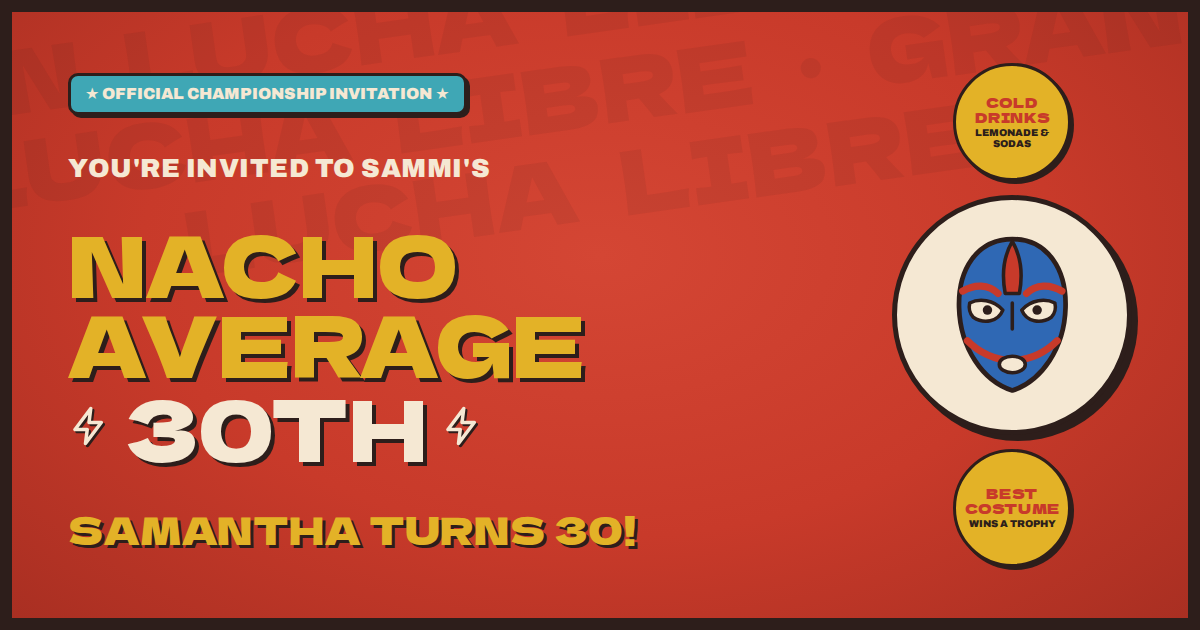
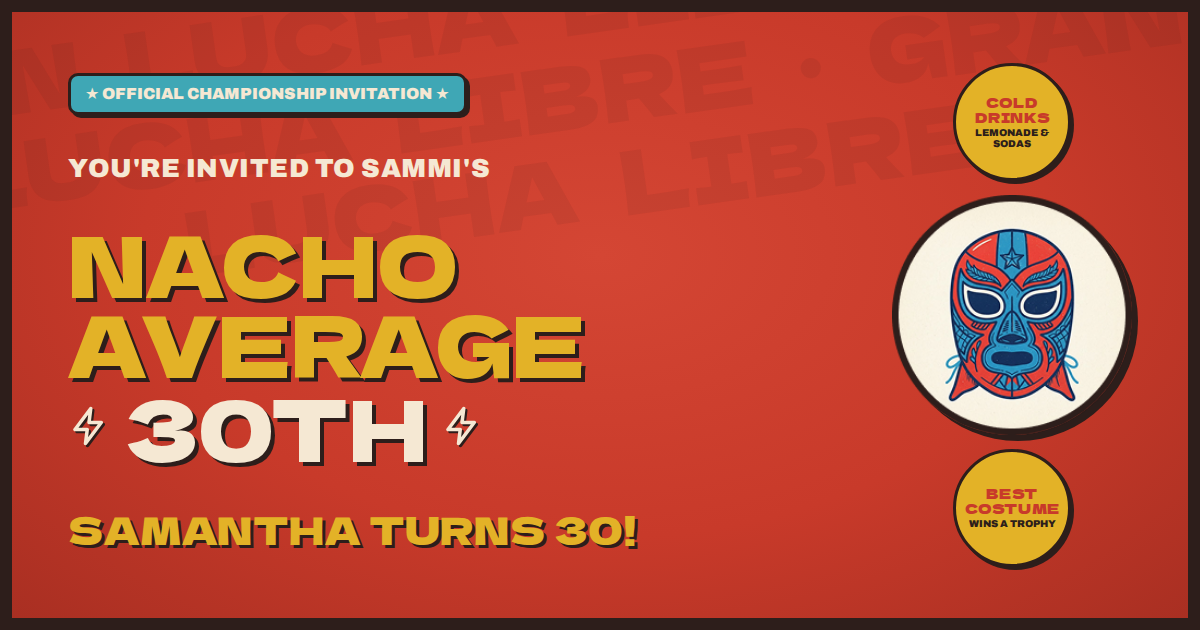
Use the Figma artwork across the site (#9)
* Use the Figma artwork for the feast, schedule, and invite

- Feast: Championship Nachos and Champion Churros cards with the
  illustrated art, around El Grande Lemonade (replacing tacos and the
  avocado)
- Schedule: the Grand Entrance and Cake Smash rows use their Figma icons
- Invite poster: the flexing chili champ fills the VS circle

The art ships in public/art with metadata stripped; the feast images are
trimmed of their baked-in border. Unused agave and avocado characters
are removed.

Claude-Session: https://claude.ai/code/session_01HXZrgNicowinLAMq3mgLZX

* Place the masked taco, lucha mask, and remaining schedule art

- Hero: the masked taco strutting in fills the big circle
- Welcome screen: the Figma lucha mask replaces the hand-drawn one (and
  in the re-rendered text-message preview image)
- Invite on phones: the thumbs-up masked taco card
- Schedule: nacho chip for Doors Open and the record player for the
  Dance Battle, so every row but the lemonade after-party uses Figma art

Art that carries its own ring or frame and shadow is sized to line up
with the CSS shapes it replaces. The now-unused taco and pepper
characters and the drawn LuchaMask are removed.

Claude-Session: https://claude.ai/code/session_01HXZrgNicowinLAMq3mgLZX

* Put the boxing masked taco in the invite's VS circle

The desktop invite poster now pits the boxing masked taco against the
flexing chili, both from the Figma art with matching rings and shadows.
[…]

diff --git a/src/App.jsx b/src/App.jsx
@@ -1,7 +1,7 @@
 import { useEffect, useRef, useState } from 'react'
 import { createPortal } from 'react-dom'
 import { feast, links, marquee, party, ringNameParts, schedule, story } from './content'
-import { Bolt, Character, LuchaMask, TicketStar } from './illustrations'
+import { Bolt, Character, TicketStar } from './illustrations'
 
 function encode(data) {
   return new URLSearchParams(data).toString()
@@ -286,7 +286,7 @@ function Welcome({ sectionRef }) {
             <small>Lemonade &amp; sodas</small>
           </p>
           <div className="welcome-mask">
-            <LuchaMask />
+            <img src="/art/lucha-mask.png" alt="A red and blue lucha libre mask" />
           </div>
           <p className="welcome-badge">
             Best costume
@@ -400,14 +400,15 @@ function Invite() {
           <span>30th Fiesta</span>
         </h2>
         <div className="invite-bout">
-          <div className="invite-mascot">
-            <Character name="taco-walk" alt="Nacho the taco" />
+          <div className="invite-mascot is-art invite-taco">
+            <img className="wide-only" src="/art/boxing-taco.png" alt="The masked taco luchador, gloves up" />
+            <img className="narrow-only" src="/art/masked-taco-thumbs.png" alt="The masked taco luchador, thumbs up" />
           </div>
           <p className="invite-vs" aria-hidden="true">
             VS
           </p>
-          <div className="invite-mascot">
-            <Character name="pepper" alt="The chili pepper" />
+          <div className="invite-mascot is-art">
+            <img src="/art/chili-champ.png" alt="The chili pepper champ, flexing" />
           </div>
         </div>
         <div className="invite-celebrant">
@@ -471,8 +472,8 @@ function Hero() {
       <p className="hero-pill">A Nacho Libre-inspired birthday fiesta</p>
       <div className="hero-art">
         <p className="hero-badge gold">Free guaca-mole!</p>
-        <div className="hero-mascot">
-          <Character name="taco-walk" alt="Nacho the taco" />
+        <div className="hero-mascot is-art">
+          <img src="/art/masked-taco-walk.png" alt="The masked taco luchador strutting in" />
         </div>
         <p className="hero-badge red">Dance battle!</p>
       </div>
@@ -568,8 +569,8 @@ export default function App() {
           {schedule.map((item) => (
             <li key={item.id}>
               <span className="time">{item.time}</span>
-              <span className="schedule-icon">
-                <Character name={item.mascot} alt="" />
+              <span className={`schedule-icon${item.icon ? ' is-art' : ''}`}>
+                {item.icon ? <img src={item.icon} alt="" /> : <Character name={item.mascot} alt="" />}
               </span>
               <div>
                 <h3>{item.title}</h3>
@@ -588,7 +589,13 @@ export default function App() {
         <div className="feast-grid">
           {feast.map((item) => (
             <article key={item.id}>
-              <div className="feast-art">{mascotFor(item.mascot, item.title)}</div>
+              <div className="feast-art">
+                {item.art ? (
+                  <img className="feast-illustration" src={item.art} alt={item.title} loading="lazy" />
+                ) : (
+                  mascotFor(item.mascot, item.title)
+                )}
+              </div>
               <div className="feast-body">
                 <h3>{item.title}</h3>
                 <p>{item.detail}</p>

diff --git a/src/styles.css b/src/styles.css
@@ -207,17 +207,14 @@ code {
 .welcome-mask {
   width: clamp(116px, 17vh, 160px);
   aspect-ratio: 1;
-  display: grid;
-  place-items: center;
-  background: var(--poster-cream);
-  border: 5px solid var(--poster-ink);
   border-radius: 50%;
   box-shadow: 6px 6px 0 var(--poster-ink);
 }
 
-.welcome-mask svg {
-  width: 62%;
-  height: 72%;
+/* The mask art carries its own cream fill and ink ring. */
+.welcome-mask img {
+  width: 100%;
+  height: 100%;
 }
 
 .welcome-badge {
@@ -458,6 +455,20 @@ code {
   height: 72%;
 }
 
+/* The taco art includes its own ring and 8px shadow: 268px of image for a 260px circle. */
+.hero-mascot.is-art {
+  display: block;
+  background: none;
+  border: 0;
+  border-radius: 0;
+  box-shadow: none;
+}
+
+.hero-mascot.is-art img {
+  width: calc(100% * 268 / 260);
+  max-width: none;
+}
+
 .hero-badge {
   width: 130px;
   aspect-ratio: 1;
@@ -567,6 +578,21 @@ code {
   border-radius: 50%;
   box-shadow: 6px 6px 0 var(--poster-ink);
   overflow: hidden;
+}
+
+.invite-mascot.is-art {
+  display: block;
+  background: none;
+  border: 0;
+  border-radius: 0;
+  box-shadow: none;
+  overflow: visible;
+}
+
+/* The art includes its own 4px ring and 6px shadow: 186px of image for a 180px circle. */
+.invite-mascot.is-art img {
+  width: calc(100% * 186 / 180);
+  max-width: none;
 }
 
 .invite-mascot .character {
@@ -938,6 +964,16 @@ code {
   overflow: hidden;
 }
 
+.schedule-icon.is-art {
+  background: none;
+  border: 0;
+}
+
+.schedule-icon.is-art img {
+  width: 100%;
+  height: 100%;
+}
+
 .schedule-icon .character {
   width: 70%;
   height: 70%;
@@ -988,6 +1024,12 @@ code {
 .feast-art .character {
   width: 150px;
   height: 170px;
+}
+
+.feast-art .feast-illustration {
+  width: 100%;
+  height: 100%;
+  object-fit: cover;
 }
 
 .feast-body {
@@ -1811,6 +1853,13 @@ textarea {
   .invite-mascot .character {
     width: 80%;
     height: 80%;
+  }
+
+  /* On phones the thumbs-up taco card brings its own frame and 5px shadow (155px for a 150px card). */
+  .invite-taco img.narrow-only {
+    display: block;
+    width: calc(100% * 155 / 150);
+    max-width: none;
   }
 
   .invite-celebrant p:first-child {

diff --git a/src/content.js b/src/content.js
@@ -38,28 +38,28 @@ export const schedule = [
     time: '3:30 PM',
     title: 'Doors Open & Nachos Bar',
     detail: 'Arrive in disguise and build your high-piled warm nacho plates at our custom loading dock.',
-    mascot: 'taco',
+    icon: '/art/nacho-chip.png',
   },
   {
     id: 'entrance',
     time: '4:30 PM',
     title: 'The Grand Entrance',
     detail: 'Behold the birthday champ as they make a glorious, masked arrival under dramatic fog.',
-    mascot: 'taco-walk',
+    icon: '/art/grand-entrance.png',
   },
   {
     id: 'dance',
     time: '5:30 PM',
     title: 'Dance Battle Royale',
     detail: 'Step into the ring. Our resident DJ drops retro latin beats for an epic dance-off championship.',
-    mascot: 'pepper',
+    icon: '/art/dj-record.png',
   },
   {
     id: 'cake',
     time: '6:30 PM',
     title: 'Cake Smash Championship',
     detail: 'Wrestling-level cake cutting ceremony. Will there be a wrestling smash? Be ready for anything.',
-    mascot: 'agave',
+    icon: '/art/cake-smash.png',
   },
   {
     id: 'after',
@@ -72,10 +72,10 @@ export const schedule = [
 
 export const feast = [
   {
-    id: 'tacos',
-    title: 'Championship Tacos',
-    detail: 'The official weigh-in snack. Extra cheese, no apologies.',
-    mascot: 'taco',
+    id: 'nachos',
+    title: 'Championship Nachos',
+    detail: 'Crispy tortilla chips drowned in warm, legendary liquid cheese, jalapeños, and spiced crema.',
+    art: '/art/nachos.jpg',
   },
   {
     id: 'lemonade',
@@ -84,10 +84,10 @@ export const feast = [
     mascot: 'lemonade',
   },
   {
-    id: 'avocado',
-    title: 'Avocado Libre',
-    detail: 'Holy guacamole, now with a skateboard.',
-    mascot: 'avocado',
+    id: 'churros',
+    title: 'Champion Churros',
+    detail: 'Deep-fried golden pastry sticks rolled in thick cinnamon sugar, served with molten chocolate dip.',
+    art: '/art/churros.jpg',
   },
 ]
 

diff --git a/src/illustrations.jsx b/src/illustrations.jsx
@@ -24,53 +24,6 @@ export function TicketStar({ className = '' }) {
   )
 }
 
-export function LuchaMask({ className = '' }) {
-  return (
-    <svg className={className} viewBox="0 0 120 140" aria-hidden="true">
-      <path
-        d="M60 6C30 6 14 32 15 64c1 34 20 62 45 70 25-8 44-36 45-70C106 32 90 6 60 6Z"
-        fill="#2F68B4"
-        stroke="#2D1E1B"
-        strokeWidth="4"
-        strokeLinejoin="round"
-      />
-      <path d="M60 8c-7 12-9 28-6 44h12c3-16 1-32-6-44Z" fill="#C83A2A" stroke="#2D1E1B" strokeWidth="3" strokeLinejoin="round" />
-      <path
-        d="M18 50c10-6 22-6 30 2M102 50c-10-6-22-6-30 2"
-        fill="none"
-        stroke="#C83A2A"
-        strokeWidth="6"
-        strokeLinecap="round"
-      />
-      <path
-        d="M22 92c10 10 22 16 38 17 16-1 28-7 38-17"
-        fill="none"
-        stroke="#C83A2A"
-        strokeWidth="6"
-        strokeLinecap="round"
-      />
-      <path
-        d="M24 60c8-4 20-3 28 6-4 10-16 12-25 6-3-3-4-8-3-12Z"
-        fill="#F5E8D3"
-        stroke="#2D1E1B"
-        strokeWidth="3"
-        strokeLinejoin="round"
-      />
-      <path
-        d="M96 60c-8-4-20-3-28 6 4 10 16 12 25 6 3-3 4-8 3-12Z"
-        fill="#F5E8D3"
-        stroke="#2D1E1B"
-        strokeWidth="3"
-        strokeLinejoin="round"
-      />
-      <circle cx="39" cy="66" r="4" fill="#2D1E1B" />
-      <circle cx="81" cy="66" r="4" fill="#2D1E1B" />
-      <ellipse cx="60" cy="112" rx="11" ry="7" fill="#F5E8D3" stroke="#2D1E1B" strokeWidth="3" />
-      <path d="M60 60v22" stroke="#2D1E1B" strokeWidth="3" strokeLinecap="round" />
-    </svg>
-  )
-}
-
 export function Bolt({ className = '' }) {
   return (
     <svg className={className} viewBox="0 0 24 24" aria-hidden="true">
